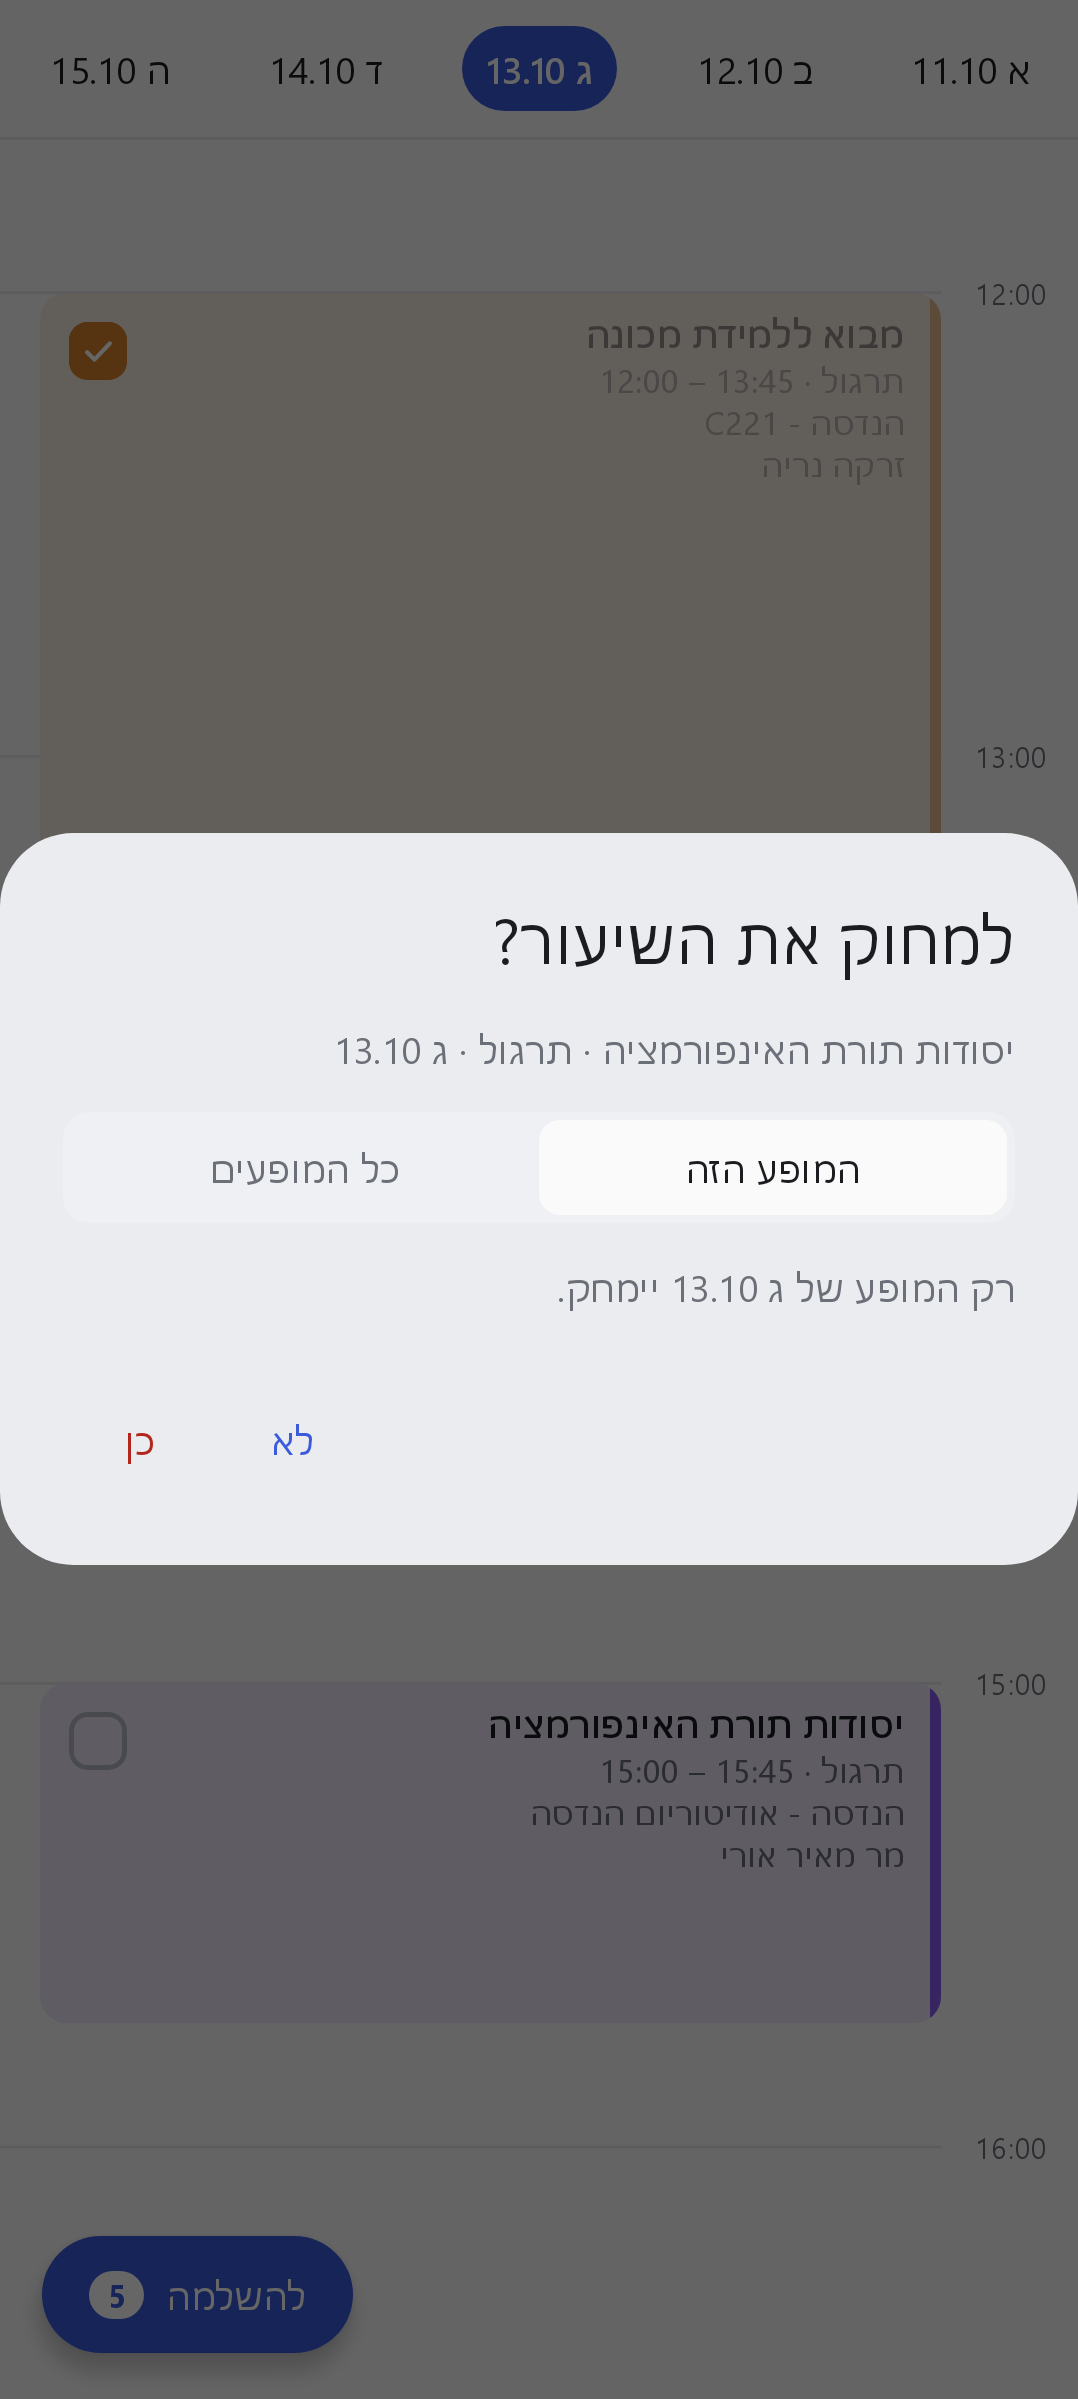
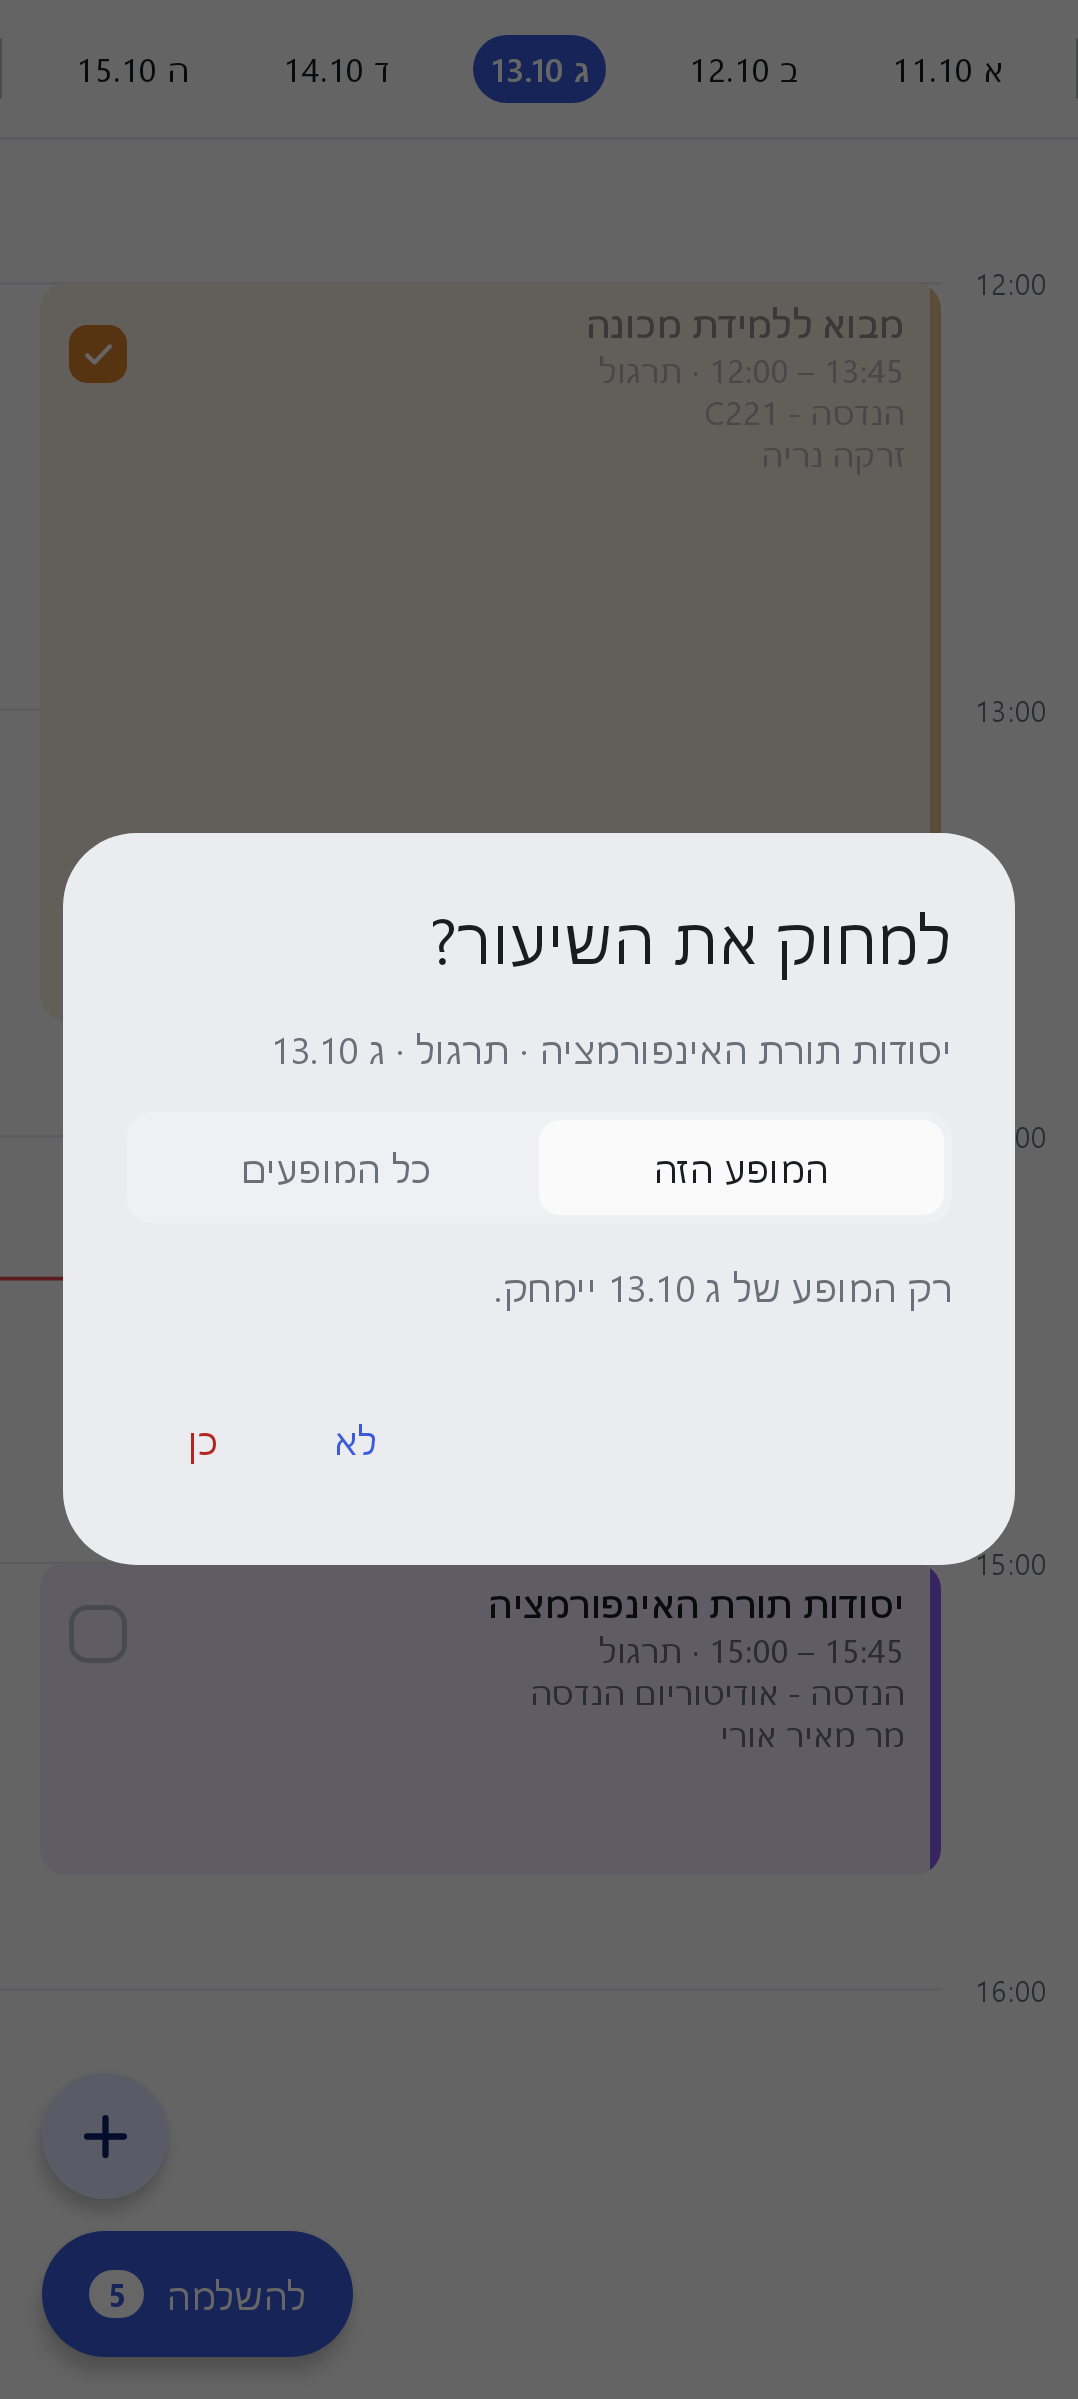
1.4.4: pop-ups no longer jump while typing
The lesson pop-ups (reminder, edit, add, delete) set their own width instead
of the platform's, which measured them at two widths in turn on every letter
typed. DialogLayoutTest types into each one at phone size and checks it stays
put; the pop-up tests now run at phone size too.

diff --git a/app/src/test/java/com/orirose/timetable/ui/DialogLayoutTest.kt b/app/src/test/java/com/orirose/timetable/ui/DialogLayoutTest.kt
@@ -1,0 +1,108 @@
+package com.orirose.timetable.ui
+
+import androidx.compose.ui.test.hasAnyAncestor
+import androidx.compose.ui.test.hasSetTextAction
+import androidx.compose.ui.test.hasTestTag
+import androidx.compose.ui.test.hasText
+import androidx.compose.ui.semantics.SemanticsProperties
+import androidx.compose.ui.test.SemanticsMatcher
+import androidx.compose.ui.test.junit4.createComposeRule
+import androidx.compose.ui.test.longClick
+import androidx.compose.ui.test.onNodeWithContentDescription
+import androidx.compose.ui.test.onNodeWithText
+import androidx.compose.ui.test.performClick
+import androidx.compose.ui.test.performTextReplacement
+import androidx.compose.ui.test.performTouchInput
+import androidx.test.espresso.IdlingPolicies
+import com.github.takahirom.roborazzi.RobolectricDeviceQualifiers
+import com.orirose.timetable.bundledSchedule
+import com.orirose.timetable.date
+import com.orirose.timetable.domain.ScheduleCalculator
+import com.orirose.timetable.ui.day.DayScreenContent
+import com.orirose.timetable.ui.day.DayUiState
+import com.orirose.timetable.ui.theme.TimetableTheme
+import org.junit.After
+import org.junit.Assert.assertEquals
+import org.junit.Assert.assertTrue
+import org.junit.Before
+import org.junit.Rule
+import org.junit.Test
+import org.junit.runner.RunWith
+import org.robolectric.RobolectricTestRunner
+import org.robolectric.RuntimeEnvironment
+import org.robolectric.annotation.Config
+import java.time.LocalDateTime
+import java.util.concurrent.TimeUnit
+
+/**
+ * The pop-ups with text fields stay put while typing, at a phone's screen size. Sized the platform's
+ * way, they were measured at two widths in turn on every change and jumped with each letter; under
+ * Robolectric they never settled, so a regression shows here as a timeout.
+ */
+@RunWith(RobolectricTestRunner::class)
+@Config(qualifiers = RobolectricDeviceQualifiers.Pixel7)
+class DialogLayoutTest {
+
+    @get:Rule
+    val compose = createComposeRule()
+
+    @Before
+    fun failFast() = IdlingPolicies.setMasterPolicyTimeout(5, TimeUnit.SECONDS)
+
+    @After
+    fun restore() = IdlingPolicies.setMasterPolicyTimeout(60, TimeUnit.SECONDS)
+
+    @Before
+    fun showTuesday() {
+        compose.setContent {
+            TimetableTheme {
+                DayScreenContent(
+                    DayUiState(ScheduleCalculator(bundledSchedule()), emptySet(), LocalDateTime.of(2026, 10, 13, 14, 20), pendingCount = 0),
+                    RecordedActions(),
+                    onOpenBacklog = {},
+                )
+            }
+        }
+    }
+
+    private fun longPressLesson() =
+        compose.onNode(hasText("יסודות תורת האינפורמציה") and hasAnyAncestor(hasTestTag("day-${date(2026, 10, 13)}")))
+            .performTouchInput { longClick() }
+
+    /** Types [steps] one after another into the field labelled [label]; the pop-up must not move or resize. */
+    private fun typeAndHoldStill(label: String, steps: List<String>) {
+        // The card itself; the window around it spans the screen.
+        val dialog = compose.onNode(SemanticsMatcher.keyIsDefined(SemanticsProperties.PaneTitle))
+        val before = dialog.fetchSemanticsNode().boundsInWindow
+        // Narrower than the screen by the side margins, as wide as a phone allows.
+        val screenWidth = RuntimeEnvironment.getApplication().resources.displayMetrics.widthPixels.toFloat()
+        assertTrue("pop-up width ${before.width} of $screenWidth", before.width in screenWidth * 0.8f..screenWidth * 0.95f)
+
+        for (text in steps) {
+            compose.onNode(hasSetTextAction() and hasText(label)).performTextReplacement(text)
+            assertEquals("after typing \"$text\"", before, dialog.fetchSemanticsNode().boundsInWindow)
+        }
+    }
+
+    private val growing = listOf("ז", "זו", "זומ", "זום", "זום ב", "זום בבית")
+
+    @Test
+    fun `the edit pop-up holds still`() {
+        longPressLesson()
+        compose.onNodeWithText("עריכה").performClick()
+        typeAndHoldStill("מקום", growing)
+    }
+
+    @Test
+    fun `the add pop-up holds still`() {
+        compose.onNodeWithContentDescription("הוספת שיעור").performClick()
+        typeAndHoldStill("שם הקורס", growing)
+    }
+
+    @Test
+    fun `the reminder pop-up holds still`() {
+        longPressLesson()
+        compose.onNodeWithText("תזכורת…").performClick()
+        typeAndHoldStill("דקות", listOf("", "4", "45", "5"))
+    }
+}

diff --git a/app/src/main/java/com/orirose/timetable/ui/day/LessonDialogs.kt b/app/src/main/java/com/orirose/timetable/ui/day/LessonDialogs.kt
@@ -43,6 +43,7 @@ import androidx.compose.ui.semantics.Role
 import androidx.compose.ui.text.input.KeyboardType
 import androidx.compose.ui.text.style.TextAlign
 import androidx.compose.ui.unit.dp
+import androidx.compose.ui.window.DialogProperties
 import com.orirose.timetable.R
 import com.orirose.timetable.data.model.LessonType
 import com.orirose.timetable.domain.LessonDetails
@@ -66,6 +67,11 @@ sealed interface LessonDialog {
 
 private const val DEFAULT_REMINDER_MINUTES = 10
 private val FieldShape = RoundedCornerShape(8.dp)
+
+// The platform sizes a pop-up by measuring it at two widths in turn. With a text field inside, that
+// starts over with every letter typed and the pop-up jumps up and down, so these set their own width.
+private val PopUpProperties = DialogProperties(usePlatformDefaultWidth = false)
+private val PopUpWidth = Modifier.padding(horizontal = 24.dp).fillMaxWidth()
 
 // The days the day view shows; a lesson moved to a Friday or Saturday would be out of sight.
 private val Week = listOf(
@@ -94,6 +100,8 @@ fun ReminderDialog(
 
     AlertDialog(
         onDismissRequest = onDismiss,
+        modifier = PopUpWidth,
+        properties = PopUpProperties,
         title = { Text(stringResource(R.string.reminder_title)) },
         text = {
             Column(verticalArrangement = Arrangement.spacedBy(14.dp)) {
@@ -145,6 +153,8 @@ fun DeleteDialog(occurrence: Occurrence, onDelete: (everyTime: Boolean) -> Unit,
 
     AlertDialog(
         onDismissRequest = onDismiss,
+        modifier = PopUpWidth,
+        properties = PopUpProperties,
         title = { Text(stringResource(R.string.delete_title)) },
         text = {
             Column(verticalArrangement = Arrangement.spacedBy(14.dp)) {
@@ -188,6 +198,8 @@ fun EditDialog(
 
     AlertDialog(
         onDismissRequest = onDismiss,
+        modifier = PopUpWidth,
+        properties = PopUpProperties,
         title = { Text(stringResource(R.string.edit_title)) },
         text = {
             Column(
@@ -232,6 +244,8 @@ fun AddDialog(
 
     AlertDialog(
         onDismissRequest = onDismiss,
+        modifier = PopUpWidth,
+        properties = PopUpProperties,
         title = { Text(stringResource(R.string.add_title)) },
         text = {
             Column(

diff --git a/app/src/test/java/com/orirose/timetable/ui/ScreenshotTest.kt b/app/src/test/java/com/orirose/timetable/ui/ScreenshotTest.kt
@@ -42,8 +42,6 @@ import androidx.compose.ui.text.font.FontFamily
 import androidx.compose.ui.text.font.FontWeight
 import androidx.compose.ui.unit.Dp
 import androidx.compose.ui.unit.dp
-import androidx.test.espresso.AppNotIdleException
-import androidx.test.espresso.IdlingPolicies
 import com.github.takahirom.roborazzi.ExperimentalRoborazziApi
 import com.github.takahirom.roborazzi.RobolectricDeviceQualifiers
 import com.github.takahirom.roborazzi.captureRoboImage
@@ -78,7 +76,6 @@ import java.io.File
 import java.time.LocalDate
 import java.time.LocalDateTime
 import java.time.temporal.ChronoUnit
-import java.util.concurrent.TimeUnit
 
 /**
  * Renders the real screens with the bundled schedule at phone size, on the PC, and saves them as
@@ -140,21 +137,11 @@ class ScreenshotTest {
         )
     }
 
-    /**
-     * Draws a pop-up over the day screen. Under Robolectric, at this screen size, a pop-up that
-     * holds a text field is laid out over and over and never reports idle (LessonMenuTest says
-     * more), so the wait is cut short; it is drawn all the same.
-     */
+    /** Draws a pop-up over the day screen. */
     private fun capturePopUp(name: String, schedule: Schedule = this.schedule, popUp: @Composable () -> Unit) {
-        IdlingPolicies.setMasterPolicyTimeout(2, TimeUnit.SECONDS)
-        try {
-            show {
-                Day(schedule = schedule)
-                popUp()
-            }
-        } catch (_: AppNotIdleException) {
-        } finally {
-            IdlingPolicies.setMasterPolicyTimeout(60, TimeUnit.SECONDS)
+        show {
+            Day(schedule = schedule)
+            popUp()
         }
         captureScreen(name)
     }

diff --git a/app/src/test/java/com/orirose/timetable/ui/LessonMenuTest.kt b/app/src/test/java/com/orirose/timetable/ui/LessonMenuTest.kt
@@ -13,6 +13,7 @@ import androidx.compose.ui.test.performClick
 import androidx.compose.ui.test.performScrollTo
 import androidx.compose.ui.test.performTextReplacement
 import androidx.compose.ui.test.performTouchInput
+import com.github.takahirom.roborazzi.RobolectricDeviceQualifiers
 import com.orirose.timetable.bundledSchedule
 import com.orirose.timetable.data.model.Schedule
 import com.orirose.timetable.date
@@ -28,16 +29,13 @@ import org.junit.Test
 import org.junit.runner.RunWith
 import org.robolectric.RobolectricTestRunner
 import org.robolectric.RuntimeEnvironment
+import org.robolectric.annotation.Config
 import org.robolectric.Shadows.shadowOf
 import java.time.LocalDateTime
 
-/**
- * Drives a lesson's long-press menu and its three pop-ups on the real day screen.
- *
- * This runs at Robolectric's default screen size on purpose: at any other size a Compose pop-up
- * that holds a text field is laid out over and over there and the test never gets a turn.
- */
+/** Drives a lesson's long-press menu and its three pop-ups on the real day screen. */
 @RunWith(RobolectricTestRunner::class)
+@Config(qualifiers = RobolectricDeviceQualifiers.Pixel7)
 class LessonMenuTest {
 
     @get:Rule

diff --git a/app/src/test/java/com/orirose/timetable/ui/AddLessonDialogTest.kt b/app/src/test/java/com/orirose/timetable/ui/AddLessonDialogTest.kt
@@ -13,6 +13,7 @@ import androidx.compose.ui.test.onNodeWithText
 import androidx.compose.ui.test.performClick
 import androidx.compose.ui.test.performScrollTo
 import androidx.compose.ui.test.performTextReplacement
+import com.github.takahirom.roborazzi.RobolectricDeviceQualifiers
 import com.orirose.timetable.bundledSchedule
 import com.orirose.timetable.domain.ScheduleCalculator
 import com.orirose.timetable.ui.day.DayScreenContent
@@ -24,11 +25,13 @@ import org.junit.Rule
 import org.junit.Test
 import org.junit.runner.RunWith
 import org.robolectric.RobolectricTestRunner
+import org.robolectric.annotation.Config
 import org.robolectric.shadows.ShadowDialog
 import java.time.LocalDateTime
 
-/** The "+" button and its pop-up, at the default screen size for the reason given in LessonMenuTest. */
+/** The "+" button and its pop-up. */
 @RunWith(RobolectricTestRunner::class)
+@Config(qualifiers = RobolectricDeviceQualifiers.Pixel7)
 class AddLessonDialogTest {
 
     @get:Rule

diff --git a/CLAUDE.md b/CLAUDE.md
@@ -11,8 +11,9 @@ by day. Hebrew, right-to-left, offline. README.md has the code layout.
 - The toolchain (JDK, Android SDK, Gradle cache) lives in `C:\Dev\android-toolchain`. Nothing
   is on PATH; `build.cmd` sets the environment.
 - There is no phone or emulator on this PC. Check UI changes by reading the screenshots.
-  `ScreenshotTest` renders at phone size; `LessonMenuTest` drives the pop-ups and explains in its
-  header why it runs at the default screen size.
+  `ScreenshotTest` renders at phone size; `LessonMenuTest` and `AddLessonDialogTest` drive the
+  pop-ups. `DialogLayoutTest` checks a pop-up stays put while typing; pop-ups with text fields
+  set their own width (`PopUpProperties` in `LessonDialogs.kt`), as the platform's sizing made them jump.
 - The app must stay offline: no new permissions (`OfflineTest` fails otherwise) and no component
   that other apps can reach besides the launcher activity.
 - Raise `versionCode` in `app/build.gradle.kts` for every APK handed to the user.
